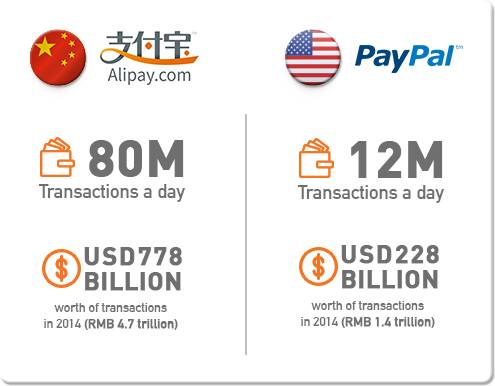
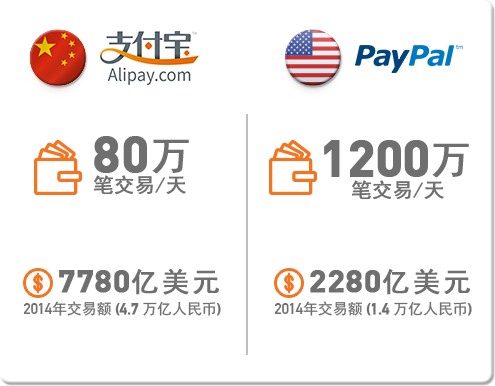
update chinese

diff --git a/src/js/view/main-view/HomePage.js b/src/js/view/main-view/HomePage.js
@@ -8,7 +8,7 @@ var HomePage = module.exports = React.createClass({
         $(form2).css('display','none');
         this.isWrongInput = false;
         if(isIE8) {
-            $('.myInput').val('Email me');
+            $('.myInput').val('请在这里输入');
             this.isWrongInput = true;
         }
         return {};
@@ -37,7 +37,7 @@ var HomePage = module.exports = React.createClass({
         } else {
             e.preventDefault();
             this.isWrongInput = true;
-            $('.myInput').val('Please enter a valid email');
+            $('.myInput').val('请输入有效的电子邮件');
         }
     },
 
@@ -84,7 +84,7 @@ var HomePage = module.exports = React.createClass({
     render:function() {
         //<input type="submit" className="submitBtn" value="Submit" onClick={this.checkForm} />
         /*<div className = "closeArea" onClick={this.closeForm}></div>*/
-
+        var n = "\n";
         var bg = (isIE8? <div id="homePageBg"><img src="build/images/bg.jpg"/></div>:'');
         return <div className="homePage" id="homePage" section="1">
             {bg}
@@ -116,7 +116,7 @@ var HomePage = module.exports = React.createClass({
                             <a id="weiboIcon" onClick={this.weiboShareHandler} target='_blank' href="javascript:" className="icons"><img src="build/images/weiboicon.png"/></a>
                         </div>
                     </div>
-                    <a id="aboutAsia" target='_blank' href="http://www.taubmanasia.com/">
+                    <a id="aboutAsia" target='_blank' href="http://www.taubmanasia.com.cn/">
                         <div id="asiaIcon"><img src="build/images/talkaboutasia.png"/></div>
                     </a>
                 </div>
@@ -128,13 +128,13 @@ var HomePage = module.exports = React.createClass({
                 <form className="emailForm" id="myEmailForm" method="POST" action="http://chinamall.xenyo.net:8080/download_whitepaper.aspx">
                     <div className = "emailFormBg"></div>
                     <div className = "contents">
-                        <div className = "form2" ref="form2"><p>Thank you, the whitepaper will download now</p></div>
+                        <div className = "form2" ref="form2"><img src="./build/images/thankyou.png"/></div>
                         <div className = "form1" ref="form1">
-                            <p>Taubman Asia thanks you for your interest in downloading the China Mall 2020 whitepaper.</p>
-                            <p>Please enter your details below.</p>
+                            <p>塔博曼亚洲感谢您下载{n}展望2020年的中国购物中心白皮书.</p>
+                            <p>请输入您的个人资料</p>
                             <div className="formButtonBg">
                                 <img src="build/images/formbtn.png"/>
-                                <input type="text" id="email" name="email" className = "myInput" placeholder="Email here" onClick={this.checkIfWrongInput}/>
+                                <input type="text" id="email" name="email" className = "myInput" placeholder="请在这里输入" onClick={this.checkIfWrongInput}/>
                             </div>
                             <div className="submitBtn" onClick={this.checkForm}>
                                 <img src="build/images/formsubmit.png" />

diff --git a/src/css/panel-info.scss b/src/css/panel-info.scss
@@ -30,9 +30,9 @@
     position: absolute;
     z-index: 2;
     display: block;
-    padding: 0 6%;
+    padding: 0 6% 6%;
     background-color: #6f6f6f;
-    height: 100%;
+    height: auto;
     visibility: visible;
     @include transition(all 0.5s ease-in-out);
 
@@ -68,8 +68,8 @@
     }
 
     img {
-      height: 39% !important;
-      width: auto !important;
+      //height: 48% !important;
+      //width: auto !important;
     }
   }
 }
@@ -78,7 +78,7 @@
   //overflow-y: hidden;
   .info1 {
     position: absolute;
-    padding: 0 6%;
+    padding: 0 6% 6%;
     @include transition(all 0.5s ease-in-out);
     visibility: visible;
     &.hide {
@@ -93,6 +93,7 @@
   }
   .info2 {
     position: absolute;
+    margin-bottom: 5%;
     left: 0;
     right: 0;
     top: 7%;
@@ -147,6 +148,7 @@
     width: 67%;
     height: 100%;
     background-color: #282b2d;
+    overflow: auto;
     h1 {
       font-size: 35px;
       color: white;
@@ -191,7 +193,7 @@
   #middle {
     margin: 5% auto;
     position: relative;
-    width: 74%;
+    width: 100%;
     h2 {
       margin:0;
       font-size: 30px;
@@ -216,6 +218,8 @@
   ul {
     list-style: none;
     padding-left: 18px;
+    margin:0;
+    float:left;
     li {
       font-size: 23px;
       float: left;
@@ -248,10 +252,16 @@
   }
 
   .goAliBtn {
-    width: 60%;
+    float: left;
+    width: 100%;
     position: relative;
-    margin: 11% auto 0;
+    margin: 2% auto 0;
     cursor: pointer;
+    text-align: center;
+
+    img {
+      width: 68% !important;
+    }
   }
 
 }
@@ -355,7 +365,6 @@ and (max-height : 1000px)
 
   .goAliBtn {
     margin: 2% auto 6%!important;
-    width: 60% !important;
   }
 }
 
@@ -411,7 +420,7 @@ and (max-height : 800px)
   }
 
   .goAliBtn {
-    margin: 8% auto 6% !important;
+    margin: 4% auto 6% !important;
   }
 }
 
@@ -462,7 +471,7 @@ and (max-width : 1699px)
   }
 
   .goAliBtn {
-    margin: 8% auto 6% !important;
+    margin: 4% auto 6% !important;
   }
 }
 
@@ -524,7 +533,7 @@ and (max-width : 1199px) {
   }
 
   .goAliBtn {
-    margin: 8% auto 0 !important;
+    margin: 4% auto 0 !important;
   }
 
 }
@@ -583,7 +592,7 @@ and (max-width : 1199px) {
   }
 
   .goAliBtn {
-    margin: 8% auto 0 !important;
+    margin: 4% auto 0 !important;
   }
 }
 
@@ -642,7 +651,7 @@ and (max-width : 1199px) {
   }
 
   .goAliBtn {
-    margin: 8% auto 0 !important;
+    margin: 4% auto 0 !important;
   }
 }
 

diff --git a/src/css/style.scss b/src/css/style.scss
@@ -54,10 +54,24 @@ html, body {
   background: white;
   background-color: white;
   //@include transition(all 0.6s ease-out);
+  font-family: SimHei,STHeiti;
   scrollbar-face-color: #f37421;
   scrollbar-track-color: #727576;
 
 }
+
+p {
+  font-family: SimHei,STHeiti;
+}
+
+.desc {
+  font-family: SimHei,STHeiti;
+}
+
+.title {
+  font-family: SimHei,STHeiti;
+}
+
 
 body.noscroll
 {
@@ -368,10 +382,18 @@ a {
           .form2 {
             position: absolute;
             width: 100%;
-            top: 50%;
-            margin-top: -40px;
+            height: 100%;
             @include transition(opaicty 0.4s ease-out);
             //@include transform(translateY(-50%));
+            img {
+              width: 60%;
+              position: absolute;
+              top: 0;
+              bottom: 0;
+              left: 0;
+              right: 0;
+              margin: auto;
+            }
           }
 
           .form1 {
@@ -1004,6 +1026,7 @@ a {
                   text-align: center;
                   color: #6f6f6f;
                   font-family: $font-menu;
+                  white-space: pre-line;
                   .buttonText {
                     vertical-align: middle;
                     display: inline-block;
@@ -1083,9 +1106,9 @@ a {
       .panel {
         @extend .fullSize;
         visibility: hidden;
-        position: fixed;
+        position: absolute;
         height: 84%;
-        top: 8%;
+        top: 0;
         background-color: #282b2d;
         background-color: rgb(40,43,45);
         z-index:2;

diff --git a/src/js/view/main-view/info-module/InfoButton.js b/src/js/view/main-view/info-module/InfoButton.js
@@ -77,7 +77,7 @@ var InfoButton= module.exports = React.createClass({
                     <div className = "buttonLine"></div>
                     <div className = "buttonContent">
                         <div className = "center"></div>
-                        <span className = "buttonText">预计2012年至2022年期间，上层中产阶级的年消费将猛增<span className = "boldText">22%:</span></span>
+                        <span className = "buttonText">预计2012年至2022年期间，上层中产阶级的年消费将猛增<span className = "boldText">22%</span></span>
                     </div>
                     <div className = "buttonDetail" id="buttonDetail2" onClick={this.handleSubmit.bind(null,2)}>
                         <div className= "buttonDetailContainer">

diff --git a/src/js/view/main-view/info-module/InfoDetail.js b/src/js/view/main-view/info-module/InfoDetail.js
@@ -60,7 +60,7 @@ var InfoDetail = module.exports = React.createClass({
                         <p>根据艾瑞咨询集团(iResearch)的报告，专家预测，到2018年，中国62%的网络购物将在移动设备上进行。这显示，创新推动了国内电子商务巨头在移动销售上的发展速度，远超亚马逊等美国同行。</p>
                     </div>
                     <div className="box">
-                        <h3><img src="./build/images/flag.png"/>China’s online shoppers in context</h3>
+                        <h3><img src="./build/images/flag.png"/>中国网络消费者的购买情境分析</h3>
                         <img src="./build/images/content-ecommerce-inline.png" />
                     </div>
                 </div>

diff --git a/src/js/view/main-view/panel-module/panel-slideshow/PanelSlideShow.js b/src/js/view/main-view/panel-module/panel-slideshow/PanelSlideShow.js
@@ -33,6 +33,10 @@ var PanelSlideShow = module.exports = React.createClass({
                     if(isIE8) {
                         embedFlash();
                     }
+
+                    var height = parseInt(self.props.model.stage.height()) - parseInt(self.props.model.stage.height()) * 0.1 -  parseInt(self.props.model.stage.height()) * 0.1 ;
+                    console.log(height);
+                    $('.contents-slideShow').css('height',height);
                 },
 
                 onSlideBefore: function($slideElement, oldIndex, newIndex) {

diff --git a/src/js/view/main-view/panel-module/panel-info/PanelInfo.js b/src/js/view/main-view/panel-module/panel-info/PanelInfo.js
@@ -13,6 +13,8 @@ var PanelInfo = module.exports = React.createClass({
     handleSubmit: function () {
         $('.info1').removeClass('show').addClass('hide');
         $('.info2').removeClass('hide').addClass('show');
+
+        $('.info').find('.left').scrollTop(0);
     },
 
     render:function() {

diff --git a/src/css/slideshow.scss b/src/css/slideshow.scss
@@ -5,10 +5,11 @@
 
 .contents-slideShow {
   position: relative;
-  margin: 3% auto;
+  margin: 3% auto 3%;
   width: 100%;
-  height:100%;
-  min-height:600px;
+  height:auto;
+  //min-height:600px;
+  overflow: auto;
 
   .caption {
     position: absolute;

diff --git a/src/css/content.scss b/src/css/content.scss
@@ -137,6 +137,8 @@ $font-content: din-bold, Helvetica;
     }
 
     img {
+      position: relative;
+      top:-11px;
       width:92% !important;
     }
   }
